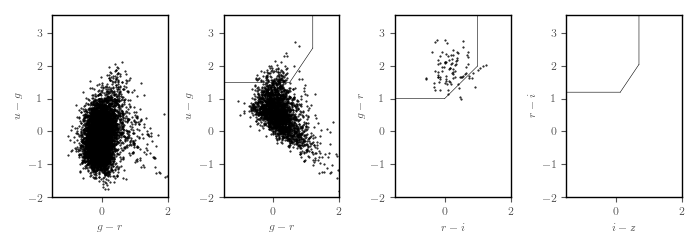
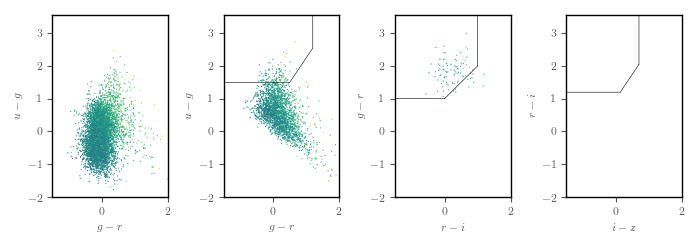
Update.

diff --git a/colorcolor_obs.py b/colorcolor_obs.py
@@ -26,7 +26,7 @@ boxsize      =  100.
 
 depths       =  get_depths()
 
-nrows        =  50
+nrows        =  -1
 prop         =  'hmass'  ## 'smass'     
 
 wave, two    =  get_pyloser(boxsize, 2.024621, nrows=nrows)
@@ -112,7 +112,7 @@ for name, frame, phys in zip(['two', 'three', 'four', 'five'], [two, three, four
   print('\n\n')
   print(frame)
 
-  physs[name]       = phys
+  physs[name]       = phys[isin]
   frames[name]      = frame 
 
 ##
@@ -151,10 +151,10 @@ plt.subplots_adjust(left=None, bottom=0.2, right=None, top=None, wspace=0.75, hs
 
 cmap         = 'viridis'
 
-axes[0].scatter(gmr2, umg2, marker='.', c=np.log10(phys2), lw=0, s=1, cmap=cmap)
-axes[1].scatter(gmr3, umg3, marker='.', c=np.log10(phys3), lw=0, s=1, cmap=cmap)
-axes[2].scatter(rmi4, gmr4, marker='.', c=np.log10(phys4), lw=0, s=1, cmap=cmap)
-axes[3].scatter(imz5, rmi5, marker='.', c=np.log10(phys5), lw=0, s=1, cmap=cmap)
+axes[0].scatter(gmr2, umg2, marker='.', c=np.log10(phys2), lw=0, s=3, cmap=cmap, vmin=9.5, vmax=14.)
+axes[1].scatter(gmr3, umg3, marker='.', c=np.log10(phys3), lw=0, s=3, cmap=cmap, vmin=9.5, vmax=14.)
+axes[2].scatter(rmi4, gmr4, marker='.', c=np.log10(phys4), lw=0, s=3, cmap=cmap, vmin=9.5, vmax=14.)
+axes[3].scatter(imz5, rmi5, marker='.', c=np.log10(phys5), lw=0, s=3, cmap=cmap, vmin=9.5, vmax=14.)
 
 #fast_scatter(axes[0], gmr2, umg2, np.log10(phys2), 9.5, 14., 20, markersize=0.1, cmap=cmap, printit=False, alpha=1.0)
 #fast_scatter(axes[1], gmr3, umg3, np.log10(phys3), 9.5, 14., 20, markersize=0.1, cmap=cmap, printit=False, alpha=1.0)

diff --git a/simba_corrfunc.py b/simba_corrfunc.py
@@ -46,10 +46,12 @@ def calc_xi(test, boxsize, redshift):
     np.savetxt('dat/corrfuncxi_{:.3f}.txt'.format(redshift), np.c_[rs, results['xi']], fmt='%.6le')
     
 def plot_xi():
-    for redshift in [2.024621, 3.00307, 3.963392, 5.0244]:
+    colors  = plt.rcParams['axes.prop_cycle'].by_key()['color']
+
+    for i, redshift in enumerate([2.024621, 3.00307, 3.963392, 5.0244]):
         rs, xi = np.loadtxt('dat/corrfuncxi_{:.3f}.txt'.format(redshift), unpack=True)
 
-        pl.loglog(rs, xi, lw=1, alpha=0.8, label='{:.2f}'.format(redshift))
+        pl.loglog(rs, xi, lw=0, alpha=0.8, label='{:.2f}'.format(redshift), c=colors[i], marker='^', markersize=3)
 
         # ZA
         iz     = int(100 * redshift + 0.001)
@@ -65,10 +67,10 @@ def plot_xi():
         _      = _[:,0:8]
         result = np.dot(_, cc)
         
-        pl.loglog(rs, result / rs / rs, lw=1, alpha=0.8, linestyle='--')
+        pl.loglog(rs, result / rs / rs, lw=1, alpha=0.8, linestyle='-', c=colors[i])
         
-    #pl.xlim(0.1,  60.5)
-    #pl.ylim(0.1,  2.e3)
+    pl.xlim(0.5,  10.**1.47)
+    pl.ylim(0.01, 5.e2)
 
     pl.xlabel(r'$r \ [h^{-1} \rm{Mpc}]$')
     pl.ylabel(r'$\xi(r)$')
